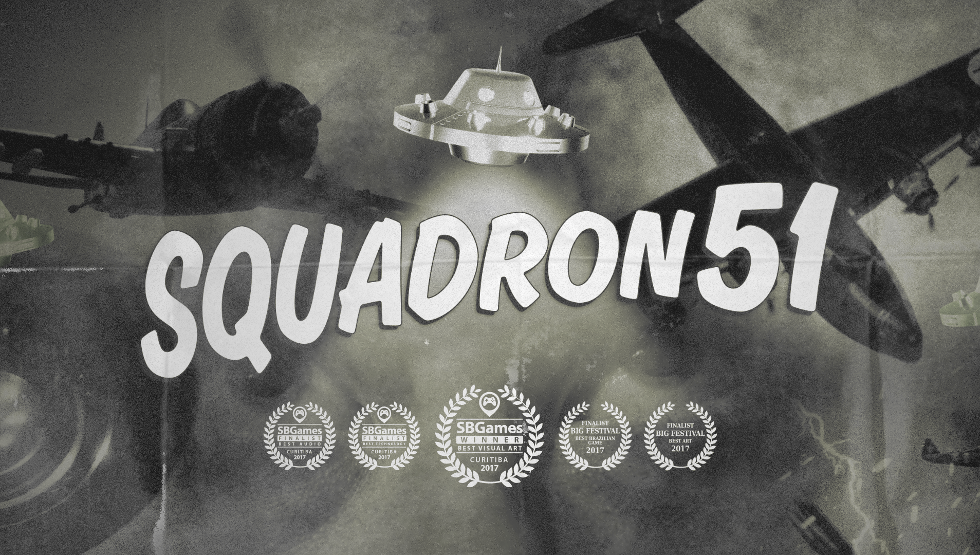
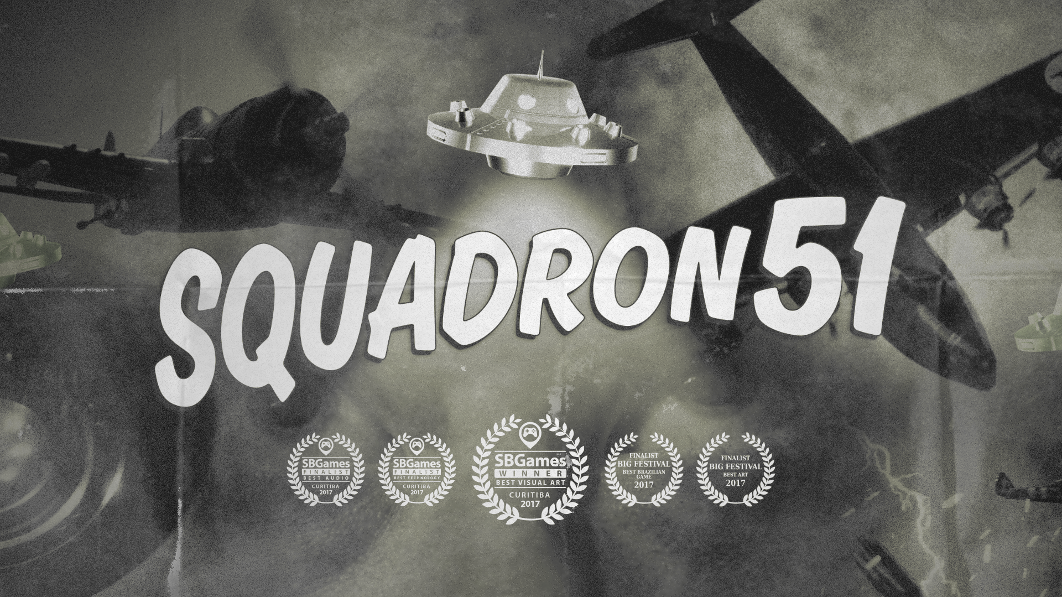
Improvement in the style spaces.

diff --git a/index.html b/index.html
@@ -29,7 +29,7 @@
             <a class="nav-link" href="#home"> <span id="menuItemHomeText"></span> <span class="sr-only">(current)</span></a>
           </li>
           <li class="nav-item">
-            <a class="nav-link" href="#squadron51-about" id="menuItemSquadron51Text">Esquadrão 51</a>
+            <a class="nav-link" href="#squadron51" id="menuItemSquadron51Text">Esquadrão 51</a>
           </li>
           <li class="nav-item">
             <a class="nav-link" href="#contact" id="menuItemContactText">Contato</a>
@@ -41,15 +41,15 @@
     <main role="main" class="container">
     
       <div class="loomiarts-about" id="loomiarts-about">
-        <img src="Images/LoomiartsLogo.png" alt="Loomiarts logo" width="980" height="178" />
+        <img src="Images/LoomiartsLogo.png" alt="Loomiarts logo" />
         <p class="lead" id="aboutLoomiartsText1"></p>
         <p class="lead" id="aboutLoomiartsText2"></p>
       </div>
 
-      <div class="squadron51-about" id="squadron51-about">
+      <div class="squadron51" id="squadron51">
         
-        <img width="980" height="555" id="squadron51BannerImage" />
-        
+        <img width="1062" height="597" id="squadron51BannerImage" />
+
         <h1 id="squadron51HeadlineText"></h1>
         
         <p class="lead" id="squadron51Text1"></p>
@@ -102,13 +102,15 @@
         </div>
 
         <h1 id="squadron51MainFeaturesHeadlineText"></h1>
-        <p class="lead" id="squadron51FeatureText1"></p>
-        <p class="lead" id="squadron51FeatureText2"></p>
-        <p class="lead" id="squadron51FeatureText3"></p>
-        <p class="lead" id="squadron51FeatureText4"></p>
-        <p class="lead" id="squadron51FeatureText5"></p>
+        <div class="features-list">
+          <p class="lead" id="squadron51FeatureText1"></p>
+          <p class="lead" id="squadron51FeatureText2"></p>
+          <p class="lead" id="squadron51FeatureText3"></p>
+          <p class="lead" id="squadron51FeatureText4"></p>
+          <p class="lead" id="squadron51FeatureText5"></p>
+        </div>
 
-        <a class="btn btn-primary" href="https://drive.google.com/file/d/1kO5mDX0Zf8lGlVn0sIRSUygMxKC_Zwkk/view?usp=sharing" role="button">Press Kit</a>
+        <a class="btn btn-primary loomiarts-red-button" href="https://drive.google.com/file/d/1kO5mDX0Zf8lGlVn0sIRSUygMxKC_Zwkk/view?usp=sharing" role="button">Press Kit</a>
 
       </div>
 
@@ -126,8 +128,8 @@
             <div class="card-body">
               <h4 class="card-title">Facebook</h4>
               <p class="card-text" id="contactFacebookText"></p>
-              <a href="http://www.facebook.com/squadron51" class="btn btn-primary" id="contactSquadron51FacebookButton"></a>
-              <a href="http://www.facebook.com/loomiarts" class="btn btn-primary">Loomiarts</a>
+              <a href="http://www.facebook.com/squadron51" class="btn btn-primary loomiarts-red-button" id="contactSquadron51FacebookButton"></a>
+              <a href="http://www.facebook.com/loomiarts" class="btn btn-primary loomiarts-red-button">Loomiarts</a>
             </div>
           </div>
         </div>
@@ -136,14 +138,14 @@
             <div class="card-body">
               <h4 class="card-title">Twitter</h4>
               <p class="card-text" id="contactTwitterText"></p>
-              <a href="https://twitter.com/loomiarts" class="btn btn-primary">@loomiarts</a>
+              <a href="https://twitter.com/loomiarts" class="btn btn-primary loomiarts-red-button">@loomiarts</a>
             </div>
           </div>
           <div class="card">
             <div class="card-body">
               <h4 class="card-title">Youtube</h4>
               <p class="card-text" id="contactYoutubeText"></p>
-              <a href="https://www.youtube.com/channel/UCSTsJXCSFYo009D0YAtkqSQ" class="btn btn-primary">Loomiarts</a>
+              <a href="https://www.youtube.com/channel/UCSTsJXCSFYo009D0YAtkqSQ" class="btn btn-primary loomiarts-red-button">Loomiarts</a>
             </div>
           </div>
         </div>
@@ -152,10 +154,6 @@
 
     </main><!-- /.container -->
 
-
-    <!-- Bootstrap core JavaScript
-    ================================================== -->
-    <!-- Placed at the end of the document so the pages load faster -->
     <script src="https://code.jquery.com/jquery-3.2.1.slim.min.js" integrity="sha384-KJ3o2DKtIkvYIK3UENzmM7KCkRr/rE9/Qpg6aAZGJwFDMVNA/GpGFF93hXpG5KkN" crossorigin="anonymous"></script>
     <script>window.jQuery || document.write('<script src="../../../../assets/js/vendor/jquery.min.js"><\/script>')</script>
     <script src="https://cdnjs.cloudflare.com/ajax/libs/popper.js/1.12.3/umd/popper.min.js" integrity="sha384-vFJXuSJphROIrBnz7yo7oB41mKfc8JzQZiCq4NCceLEaO4IHwicKwpJf9c9IpFgh" crossorigin="anonymous"></script>

diff --git a/scripts.js b/scripts.js
@@ -55,8 +55,8 @@ function createEnglishLanguage()
 			squadron51FeatureText4:"&bull; Local and cooperative multiplayer mode for two players.",
 			squadron51FeatureText5:"&bull; Target release date: ending of 2018.",
 			contactHeadlineText:"CONTACT",
-			contactEmailText:"To talk with Loomiarts, please send an e-mail to <b>contact@loomiarts.com</b>",
-			contactFacebookText:"Like our pages on Facebook:",
+			contactEmailText:"To get in touch with Loomiarts, please send an e-mail to <b>contact@loomiarts.com</b>",
+			contactFacebookText:"Follow our pages on Facebook:",
 			contactSquadron51FacebookButton:"Squadron 51",
 			contactTwitterText:"Follow Loomiarts on Twitter:",
 			contactYoutubeText:"To see all gameplay videos and trailers, subscribe to the Loomiarts Youtube channel:"

diff --git a/style.css b/style.css
@@ -1,15 +1,38 @@
 body {
   padding-top: 5rem;
 }
+h1 {
+  padding-top: 3rem;
+  padding-bottom: 1rem;
+}
 .loomiarts-about {
-  padding: 3rem 1.5rem;
+  padding-top: 3rem;
+  padding-bottom: 5rem;
   text-align: center;
 }
-.squadron51-about {
-  padding: 3rem 1.5rem;
+.loomiarts-about>img {
+  padding-bottom: 5rem;
+}
+.squadron51 {
+  padding-top: 1rem;
+  padding-bottom: 1rem;
   text-align: center;
+}
+.squadron51>p {
+  padding: 1rem 1rem;
+}
+.squadron51>img {
+  padding-bottom: 2rem;
 }
 .contact {
-  padding: 3rem 1.5rem;
+  padding-top: 1rem;
+  padding-bottom: 3rem;
   text-align: center;
+}
+.features-list {
+  text-align: left;
+}
+.loomiarts-red-button {
+  background-color: #A20033;
+  border-color: #A20033;
 }
